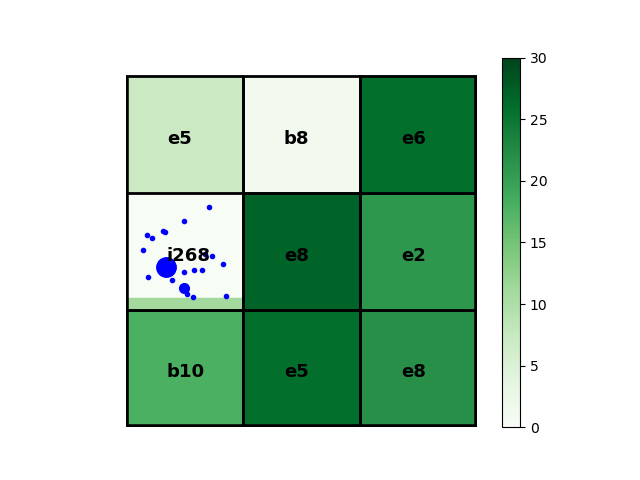
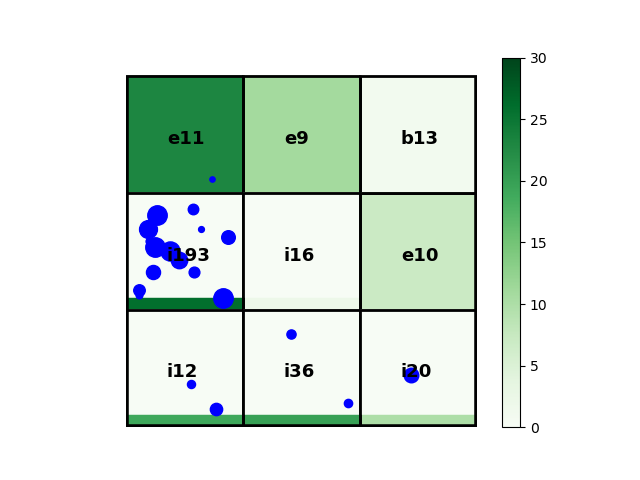
trying to change phases to be based on payoff

diff --git a/classCell.py b/classCell.py
@@ -1,71 +1,3 @@
-# import numpy as np
-# from phase import *
-# import math
-
-# class Cell():
-#     def __init__(self, payoff, location):
-#         self.payoff = payoff
-#         self.location = location
-#         self.hidden = True
-#         self.phase = Phase.experimental
-#         self.numHits = 0
-#         self.lowerx, self.upperx = self.logiFunc()
-#         self.numSciHits = 0
-
-#     def __repr__(self):
-#         "string representation of Cell"
-#         return str(self.payoff)
-
-#     def logiFunc(self):
-#         lowSuccess = False
-#         highSuccess  = False
-
-#         while lowSuccess == False or highSuccess == False:
-#             # set steepness and center parameters for logistic function
-#             steepness = np.random.randint(1, 11)
-#             center = np.random.randint(0, 10)
-#             lowerx = 0
-#             upperx = []
-#             lowSuccess = False
-#             highSuccess = False
-#             for x in np.arange(0, 50, 0.01):
-#                 y = float(1/(1 + math.pow(math.e, -steepness*(x-center))))
-#                 if ((y - .01) <= 0.1) and math.floor(x) > 0:
-#                     lowerx = math.floor(x)
-#                     lowSuccess = True
-#                     #self.phase = Phase.breakthrough
-#                 elif (.99 - y) <= 0.1:
-#                     upperx.append(math.ceil(x))
-#                     highSuccess = True
-#                     #self.phase = Phase.incremental
-#         return lowerx, min(upperx)
-
-#     def cellQuery(self, board):
-#         """returns payoff for each scientist based on conditions of a cell"""
-#         original = self.payoff
-#         sciPayoff = 0.0
-
-#         if self.numHits > self.upperx:
-#             self.phase = Phase.incremental
-#         elif self.numHits > self.lowerx:
-#             self.phase = Phase.breakthrough
-#             self.hidden = False
-#             # "discover" the cell once it hits breakthrough phase
-#             if self.location not in board.discovered:
-#                 board.discovered.append(self.location)
-#                 board.undiscovered.remove(self.location)
-#         if self.phase == Phase.experimental:
-#             self.payoff = 0.8 * self.payoff
-#             sciPayoff = 0.2 * original
-#         elif self.phase == Phase.breakthrough:
-#             self.payoff = 0.5 * self.payoff
-#             sciPayoff = 0.5 * original
-#         else:
-#             self.payoff = 0.8 * self.payoff
-#             sciPayoff = 0.2 * original
-#         self.numHits += 1
-#         return sciPayoff
-
 import numpy as np
 from phase import *
 import math
@@ -106,34 +38,49 @@ class Cell():
                     upperx.append(math.ceil(x))
                     highSuccess = True
             
-            xmax = min(upperx)
-            #Goal: to get from x=0 to x=xmax in ksteps
-            # - Chop interval into N pieces
-            yList = []
-            interval = xmax/N
-            for x in np.arange(0, xmax, interval/D):
-                yval = float(1/(1 + math.pow(math.e, -steepness*(x-center))))
-                yList += [yval]
-            # - for Scientist at time i, flip coin (with probability p) D times (number of microsteps)
-            stepSize = np.random.binomial(D*2, p, size=None)
+        xmax = min(upperx)
+        #finds the y value (proportion) at given x in the logistic function
+        self.incHit = float(1/(1 + math.pow(math.e, -steepness*(xmax-center))))
+        self.breakHit = float(1/(1 + math.pow(math.e, -steepness*(lowerx-center))))
 
-            #putting the slopes in a dictionary
-            prevY = 0
-            i = 0
-            while i <= xmax: 
-                if stepSize == 0:
-                    slope = 0
-                else:
-                    slope = (yList[i+stepSize] - prevY)/stepSize
-                slopeVals[i] = slope
-                prevY = yList[i+stepSize]
-                i += 1
+        #Goal: to get from x=0 to x=xmax in ksteps
+        # - Chop interval into N pieces
+        yList = []
+        interval = xmax/N
+        for x in np.arange(0, xmax, interval/D):
+            yval = float(1/(1 + math.pow(math.e, -steepness*(x-center))))
+            yList += [yval]
+        # - for Scientist at time i, flip coin (with probability p) D times (number of microsteps)
+        stepSize = np.random.binomial(D*2, p, size=None)
+
+        #putting the slopes in a dictionary
+        prevY = 0
+        i = 0
+        while i <= xmax: 
+            if stepSize == 0:
+                slope = 0
+            else:
+                slope = (yList[i+stepSize] - prevY)/stepSize
+            slopeVals[i] = slope
+            prevY = yList[i+stepSize]
+            i += 1
         return lowerx, xmax, slopeVals
 
     def cellQuery(self, board):
         """returns payoff for each scientist based on conditions of a cell"""
         original = self.payoff
         sciPayoff = 0.0
+
+        originalPay = board.originalPays[self.location[1]][self.location[0]]
+        # if self.payoff/originalPay >= self.incHit:
+        #     self.phase = Phase.incremental
+        # elif self.payoff/originalPay >= self.breakHit:
+        #     self.phase = Phase.breakthrough
+        #     self.hidden = False
+        #     # "discover" the cell once it hits breakthrough phase
+        #     if self.location not in board.discovered:
+        #         board.discovered.append(self.location)
+        #         board.undiscovered.remove(self.location)
 
         if self.numHits > self.upperx:
             self.phase = Phase.incremental

diff --git a/Run.py b/Run.py
@@ -66,4 +66,4 @@ def batchRun(board, numScientists, numRuns):
     return
 
 board = Board(3, 3, 0)
-batchRun(board, 20, 50)
+batchRun(board, 20, 20)
